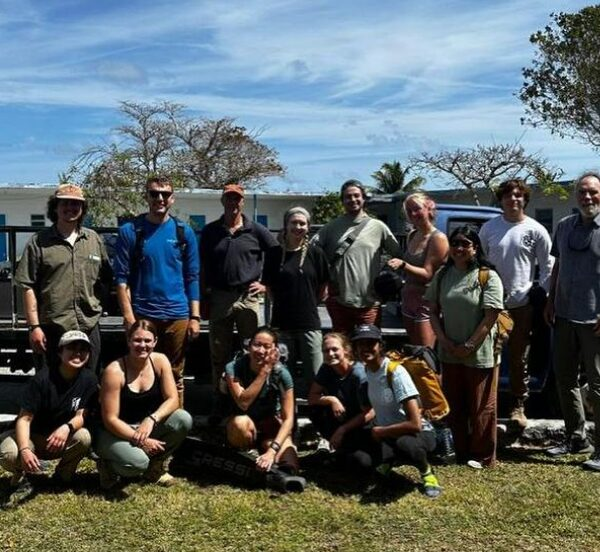
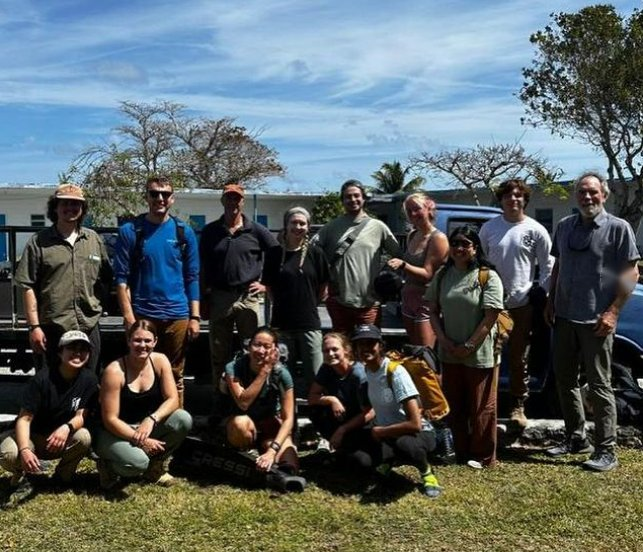
Bahamas team photo full frame; add GNSS shot and two podcast guest stills
Claude-Session: https://claude.ai/code/session_01MHzkrhwevraEYskk25zMkk

diff --git a/index.html b/index.html
@@ -203,8 +203,9 @@
       </div>
       <div class="bahamas-grid">
         <figure><img src="assets/img/bahamas-gnss.jpg" alt="Jason holding a GNSS survey pole atop a sand scarp while a teammate records data" loading="lazy"><figcaption>GNSS survey of a dune scarp</figcaption></figure>
+        <figure><img src="assets/img/bahamas-gnss2.jpg" alt="Jason holding a GNSS antenna pole on a dune scarp while a teammate records" loading="lazy"><figcaption>Logging a survey point</figcaption></figure>
         <figure><img src="assets/img/bahamas-coast.jpg" alt="Rocky carbonate coastline on San Salvador Island" loading="lazy"><figcaption>Carbonate coastline</figcaption></figure>
-        <figure class="b-wide"><img src="assets/img/bahamas-team.jpg" alt="Field course group photo on San Salvador Island" loading="lazy"><figcaption>The field team</figcaption></figure>
+        <figure class="b-team"><img src="assets/img/bahamas-team.jpg" alt="Field course group photo on San Salvador Island" loading="lazy"><figcaption>The field team</figcaption></figure>
       </div>
     </div>
 
@@ -271,6 +272,8 @@
           <img src="assets/img/podcast-window.jpg" alt="Jason interviewing a guest by a window overlooking the UT Austin campus" loading="lazy">
           <img src="assets/img/podcast-fossils-guest.jpg" alt="A guest speaking into a microphone in front of shelves of fossil specimens" loading="lazy">
           <img src="assets/img/podcast-fossils-host.jpg" alt="Jason hosting an episode recorded among fossil collections" loading="lazy">
+          <img src="assets/img/podcast-guest3.jpg" alt="A podcast guest speaking by a window" loading="lazy">
+          <img src="assets/img/podcast-guest4.jpg" alt="A podcast guest mid-conversation" loading="lazy">
         </div>
         <div class="pod-text">
         <p class="tag">Founder, host &amp; producer · 2023 – 2025</p>

diff --git a/assets/style.css b/assets/style.css
@@ -235,3 +235,8 @@ figcaption{font:12px var(--mono);color:var(--ice-muted);margin-top:10px}
 .facts dd a{color:var(--accent-deep)}
 .sub-tag{font:500 12px var(--mono);letter-spacing:.08em;text-transform:uppercase;color:var(--accent-deep);margin:18px 0 6px!important}
 .stats{grid-template-columns:repeat(2,1fr)}
+.bahamas-grid:not(.pa-grid){grid-template-columns:1fr 1fr 1fr}
+.bahamas-grid .b-team{grid-column:1/-1}
+.bahamas-grid .b-team img{height:auto!important;object-fit:contain}
+.pod-photos{grid-template-columns:1fr 1fr;grid-template-rows:repeat(3,1fr)}
+.pod-photos img{min-height:150px}
